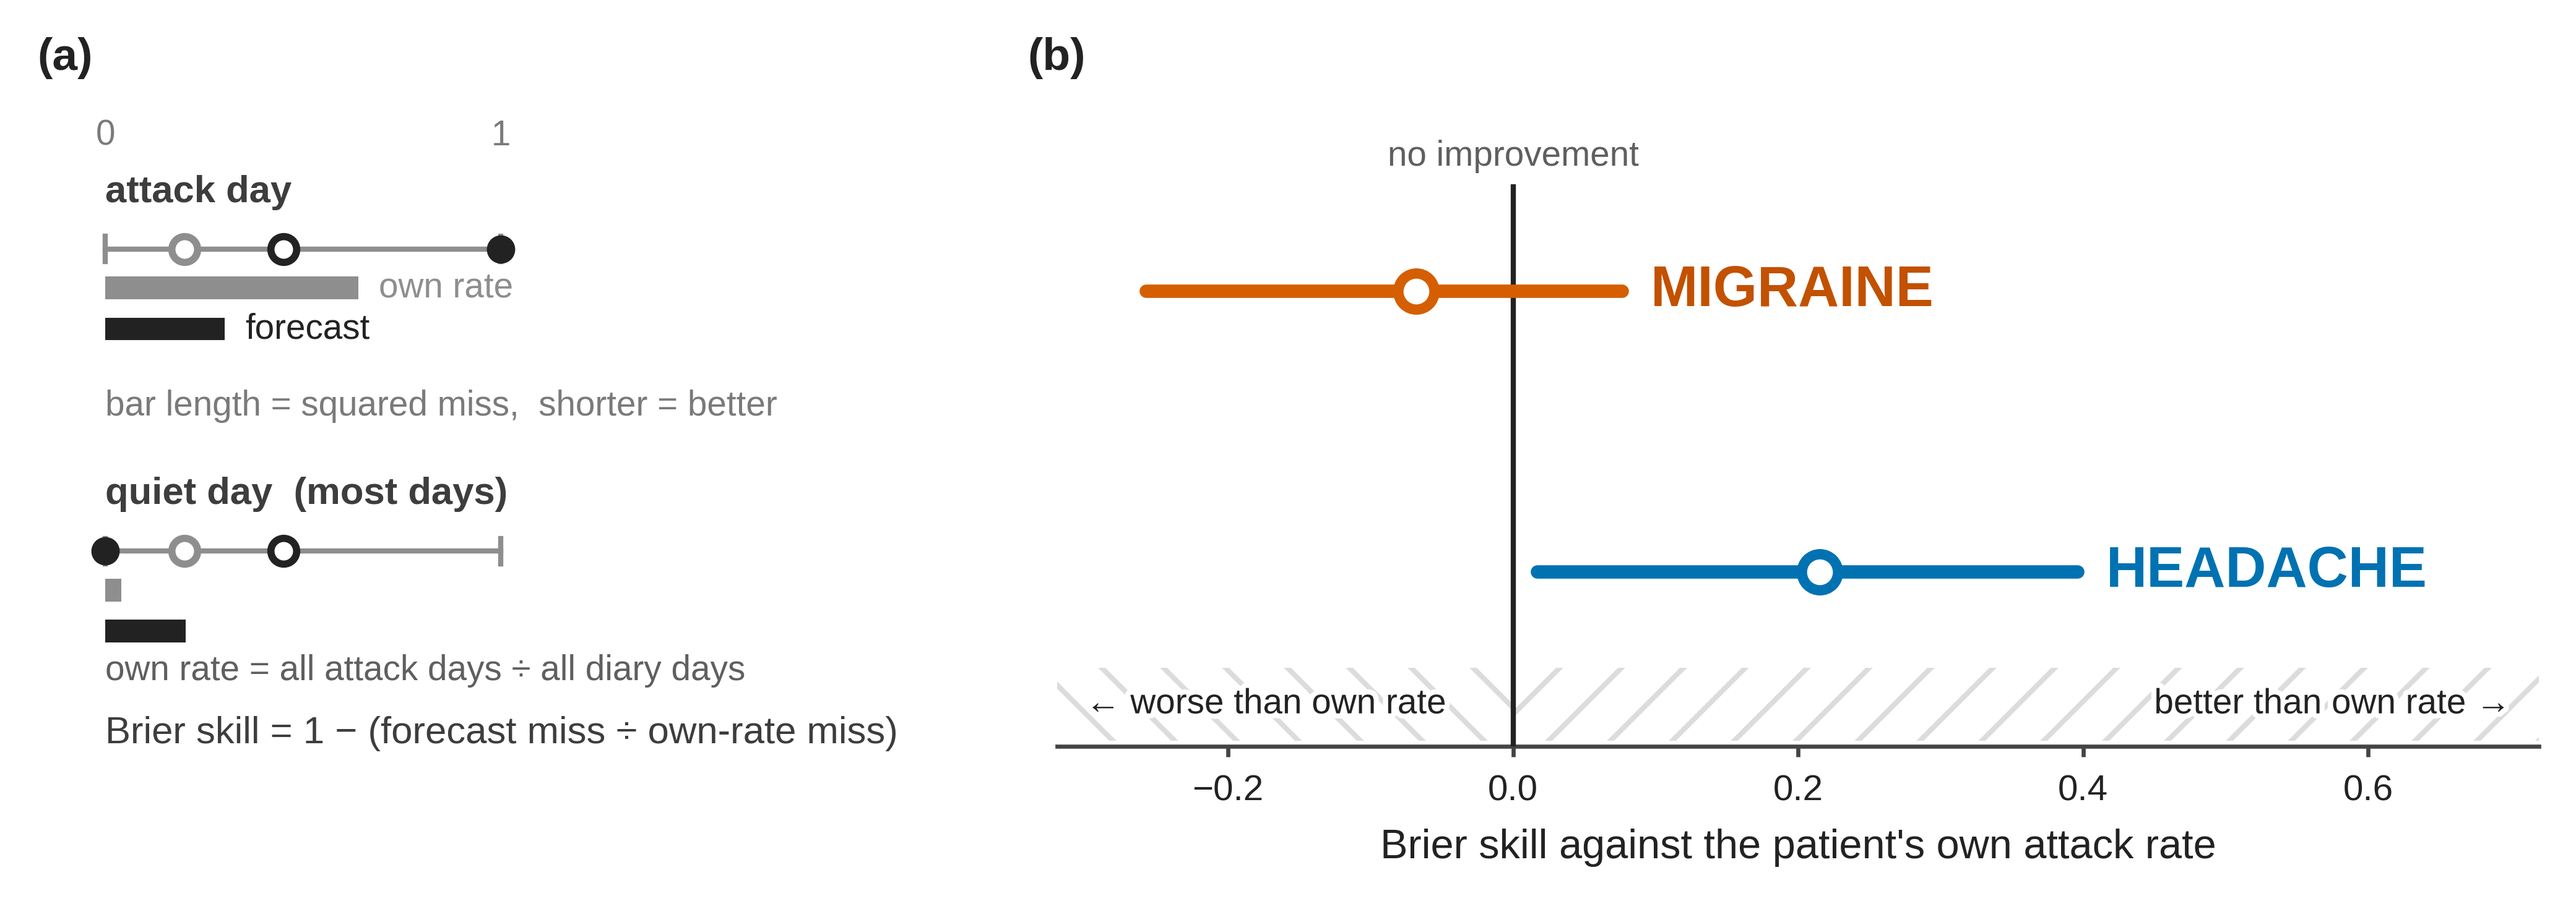
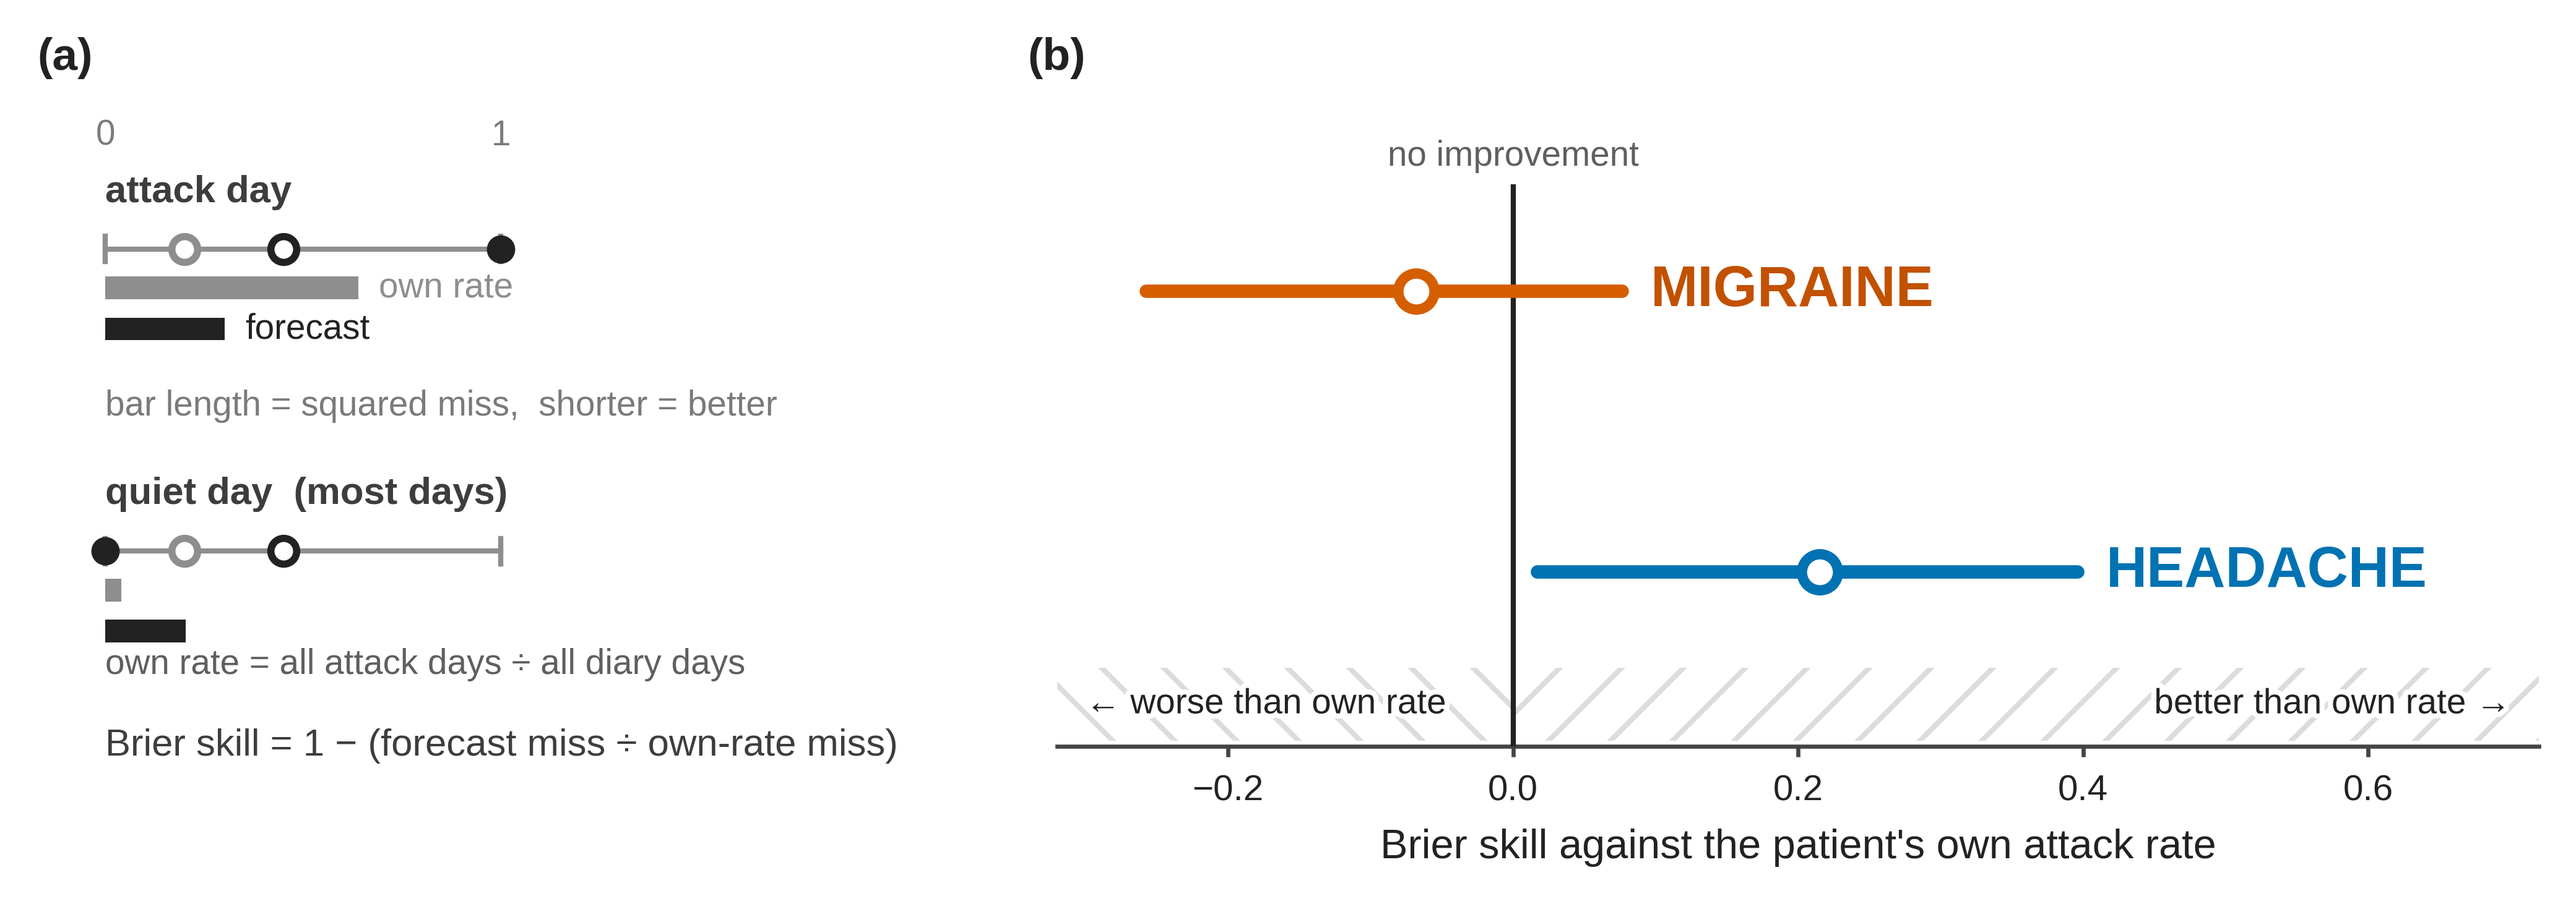
gap

Changed region(s): [[0.0312, 0.7079, 0.2811, 0.7695], [0.0312, 0.8003, 0.3436, 0.8311]]

diff --git a/docs/methodAndResults_diagramCreatorScripts/fig_m_evaluation_series.py b/docs/methodAndResults_diagramCreatorScripts/fig_m_evaluation_series.py
@@ -180,8 +180,8 @@ def _how_brier(ax):
             if ticks:                               # name the bars once, top row only
                 _lab(ax, x0 + w + 3, y + dy + 1.8, nm, PT_FINE, col)
     _lab(ax, x0, 54, "bar length = squared miss,  shorter = better", PT_FINE, THIRD)
-    _lab(ax, x0, 12, "own rate = all attack days \u00f7 all diary days", PT_FINE, SECOND)
-    _lab(ax, x0, 2, "Brier skill = 1 \u2212 (forecast miss \u00f7 own-rate miss)",
+    _lab(ax, x0, 13, "own rate = all attack days \u00f7 all diary days", PT_FINE, SECOND)
+    _lab(ax, x0, 0, "Brier skill = 1 \u2212 (forecast miss \u00f7 own-rate miss)",
          PT_BODY, BODY)
 
 
